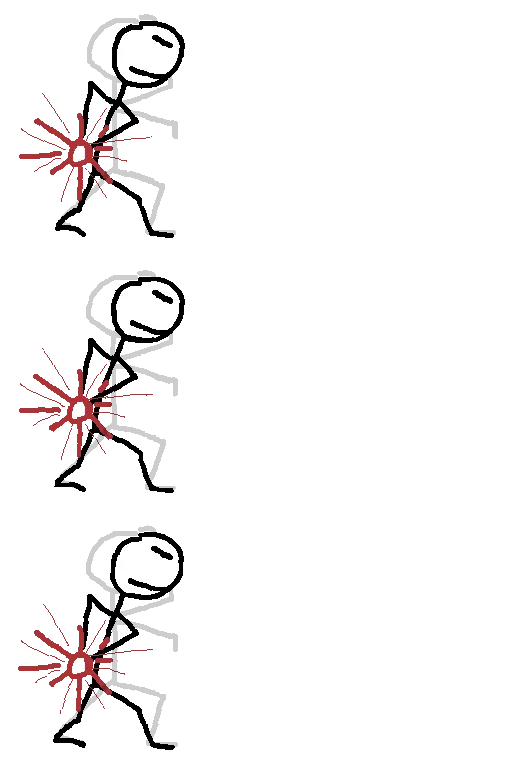
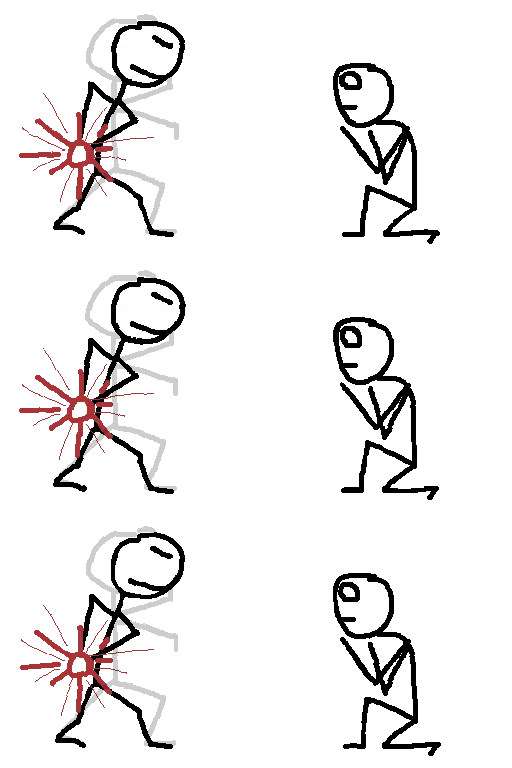
compress

diff --git a/src/main.js b/src/main.js
@@ -92,6 +92,8 @@ const BETWEEN_ROUND_LAYOUT_STATE_ID = 'round.between';
 const GAME_OVER_LAYOUT_STATE_ID = 'round.game-over';
 const ROUND_OVER_SCENE_BEATS = 2;
 const READY_BEATS = 3;
+const SUPER_FINAL_FRAME_COUNT = 4;
+const SUPER_FINAL_FRAME_MS = 210;
 const COMPUTER_MOVE_DELAY_MS = 3000;
 const COUNTDOWN_PHASE_MS = 5000;
 const LOADING_FRAME_WIDTH = 512;
@@ -366,6 +368,7 @@ let p1QueuedMove = null;
 let localTurnChoice = null;
 let rankedSnapshot = null;
 let pendingRankedSnapshot = null;
+let pendingSuperAnimation = null;
 let isApplyingRankedSnapshot = false;
 let rankedReadyWaiting = null;
 let rankedReadyWaitingTimer = null;
@@ -2588,6 +2591,15 @@ function getReadySplitPresentation(readyPlayerId) {
     };
   }
 
+  if (scene === 'charge-block-fireball/block-charge') {
+    const isChargerReady = lastMoves[readyPlayerId] === 'charge';
+    return {
+      kind: 'doodle',
+      name: `charge-block-fireball/split_scenes/block-charge_${isChargerReady ? 'charger' : 'blocker'}_is_ready`,
+      flip: lastMoves.p1 === 'charge',
+    };
+  }
+
   if (scene === 'charge-block-fireball/block-fireball') {
     const isFireballerReady = lastMoves[readyPlayerId] === 'fireball';
     return {
@@ -2812,6 +2824,7 @@ async function startTutorialFromTitle() {
     tutorialPendingFeedbackMarkup = '';
     p1QueuedMove = null;
     rankedSnapshot = null;
+    pendingSuperAnimation = null;
     stagePresentation = { kind: 'doodle', name: 'reloading', flip: false };
     render();
   });
@@ -3096,6 +3109,7 @@ function isLocalChoiceMode() {
 
 function setNewRound() {
   clearLocalTurnChoice();
+  pendingSuperAnimation = null;
   state = createRoundState({ variantId: selectedVariantId });
   screen = 'playing';
   rankedSnapshot = null;
@@ -3739,6 +3753,7 @@ async function resolvePlayerSelection() {
     if (screen === 'tutorial') {
       maybeShowTutorialFeedback(token);
     } else {
+      await playPendingSuperAnimation(token);
       maybeShowRoundOverScene(token);
     }
   }
@@ -3818,6 +3833,7 @@ function resolveQueuedTurn() {
       p1: p1Move,
       p2: p2Move,
     };
+    pendingSuperAnimation = getSuperAnimation(turn.result);
     stagePresentation = getTurnStagePresentation(turn.result, p1Move, p2Move);
 
     if (screen === 'tutorial' && state.status === 'finished' && state.winner) {
@@ -3845,20 +3861,67 @@ function resolveQueuedTurn() {
 }
 
 function getTurnStagePresentation(result, p1Move, p2Move) {
+  const superAnimation = getSuperAnimation(result);
+
+  if (superAnimation) {
+    return superAnimation.frames[0];
+  }
+
+  return getDoodlePresentation(p1Move, p2Move, { variantId: getCurrentVariantId() });
+}
+
+function getSuperAnimation(result) {
   if (
     getCurrentVariantId() === VARIANT_IDS.chargeBlockFireball
     && result?.winner
     && result[`${result.winner}Move`] === 'charge'
     && result[`${result.winner}Bullets`] >= getVariantResourceMax(VARIANT_IDS.chargeBlockFireball)
   ) {
+    const flip = result.winner === 'p2';
     return {
-      kind: 'doodle',
-      name: 'charge-block-fireball/super-blasting',
-      flip: result.winner === 'p2',
+      frames: Array.from({ length: SUPER_FINAL_FRAME_COUNT }, (_, index) => ({
+        kind: 'doodle',
+        name: `charge-block-fireball/super-final-frame${index + 1}`,
+        flip,
+      })),
+      finalFrame: {
+        kind: 'doodle',
+        name: 'charge-block-fireball/super-blasting',
+        flip,
+      },
     };
   }
 
-  return getDoodlePresentation(p1Move, p2Move, { variantId: getCurrentVariantId() });
+  return null;
+}
+
+async function playPendingSuperAnimation(token) {
+  const animation = pendingSuperAnimation;
+  pendingSuperAnimation = null;
+
+  if (!animation || !isActiveLoop(token)) {
+    return;
+  }
+
+  for (const frame of animation.frames.slice(1)) {
+    await waitMs(SUPER_FINAL_FRAME_MS, token);
+
+    if (!isActiveLoop(token)) {
+      return;
+    }
+
+    stagePresentation = frame;
+    render();
+  }
+
+  await waitMs(SUPER_FINAL_FRAME_MS, token);
+
+  if (!isActiveLoop(token)) {
+    return;
+  }
+
+  stagePresentation = animation.finalFrame;
+  render();
 }
 
 function settleTutorialScene() {

diff --git a/src/renderer.js b/src/renderer.js
@@ -93,6 +93,8 @@ export function getRendererPreloadDoodles() {
   return [
     ...Object.values(INTERACTION_DOODLES),
     ...Object.values(CHARGE_BLOCK_FIREBALL_DOODLES),
+    'charge-block-fireball/super-blasting',
+    ...Array.from({ length: 4 }, (_, index) => `charge-block-fireball/super-final-frame${index + 1}`),
     ...SPLIT_READY_DOODLES,
     ...STARBURST_WIPE_STEPS.flat().map((name) => `starburst_wipe/${name}`),
     ...READY_WAITING_READY_STEPS.map((name) => `ready_waiting/${name}`),
